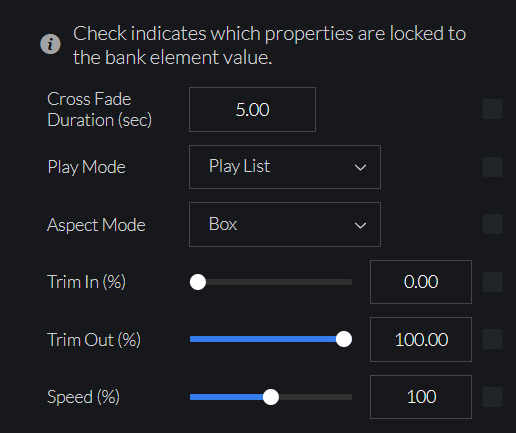
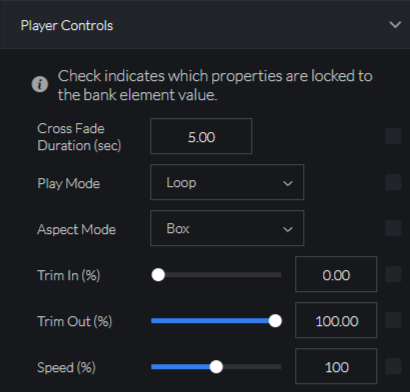
added preview link and replaced playerControl Image

diff --git a/prismdocs/prism/play/layer-options.md b/prismdocs/prism/play/layer-options.md
@@ -31,7 +31,7 @@ The **Sync to DMX** feature is used to allow the Prism UI controls to immediatel
 
 ## Adjustments
 
-Any adjustment made will directly change the layer properties, triggering a bank element may override this, if any changes were made in the preview.
+Any adjustment made will directly change the layer properties, triggering a bank element may override this, if any changes were made in the [Preview](../play/preview).
 
 ### Playback
 

diff --git a/prismdocs/shared/play/layer-options.md b/prismdocs/shared/play/layer-options.md
@@ -31,7 +31,7 @@ The **Sync to DMX** feature is used to allow the Prism UI controls to immediatel
 
 ## Adjustments
 
-Any adjustment made will directly change the layer properties, triggering a bank element may override this, if any changes were made in the preview.
+Any adjustment made will directly change the layer properties, triggering a bank element may override this, if any changes were made in the [Preview](../play/preview).
 
 ### Playback
 

diff --git a/prismdocs/zero/play/layer-options.md b/prismdocs/zero/play/layer-options.md
@@ -31,7 +31,7 @@ The **Sync to DMX** feature is used to allow the Prism UI controls to immediatel
 
 ## Adjustments
 
-Any adjustment made will directly change the layer properties, triggering a bank element may override this, if any changes were made in the preview.
+Any adjustment made will directly change the layer properties, triggering a bank element may override this, if any changes were made in the [Preview](../play/preview).
 
 ### Playback
 
